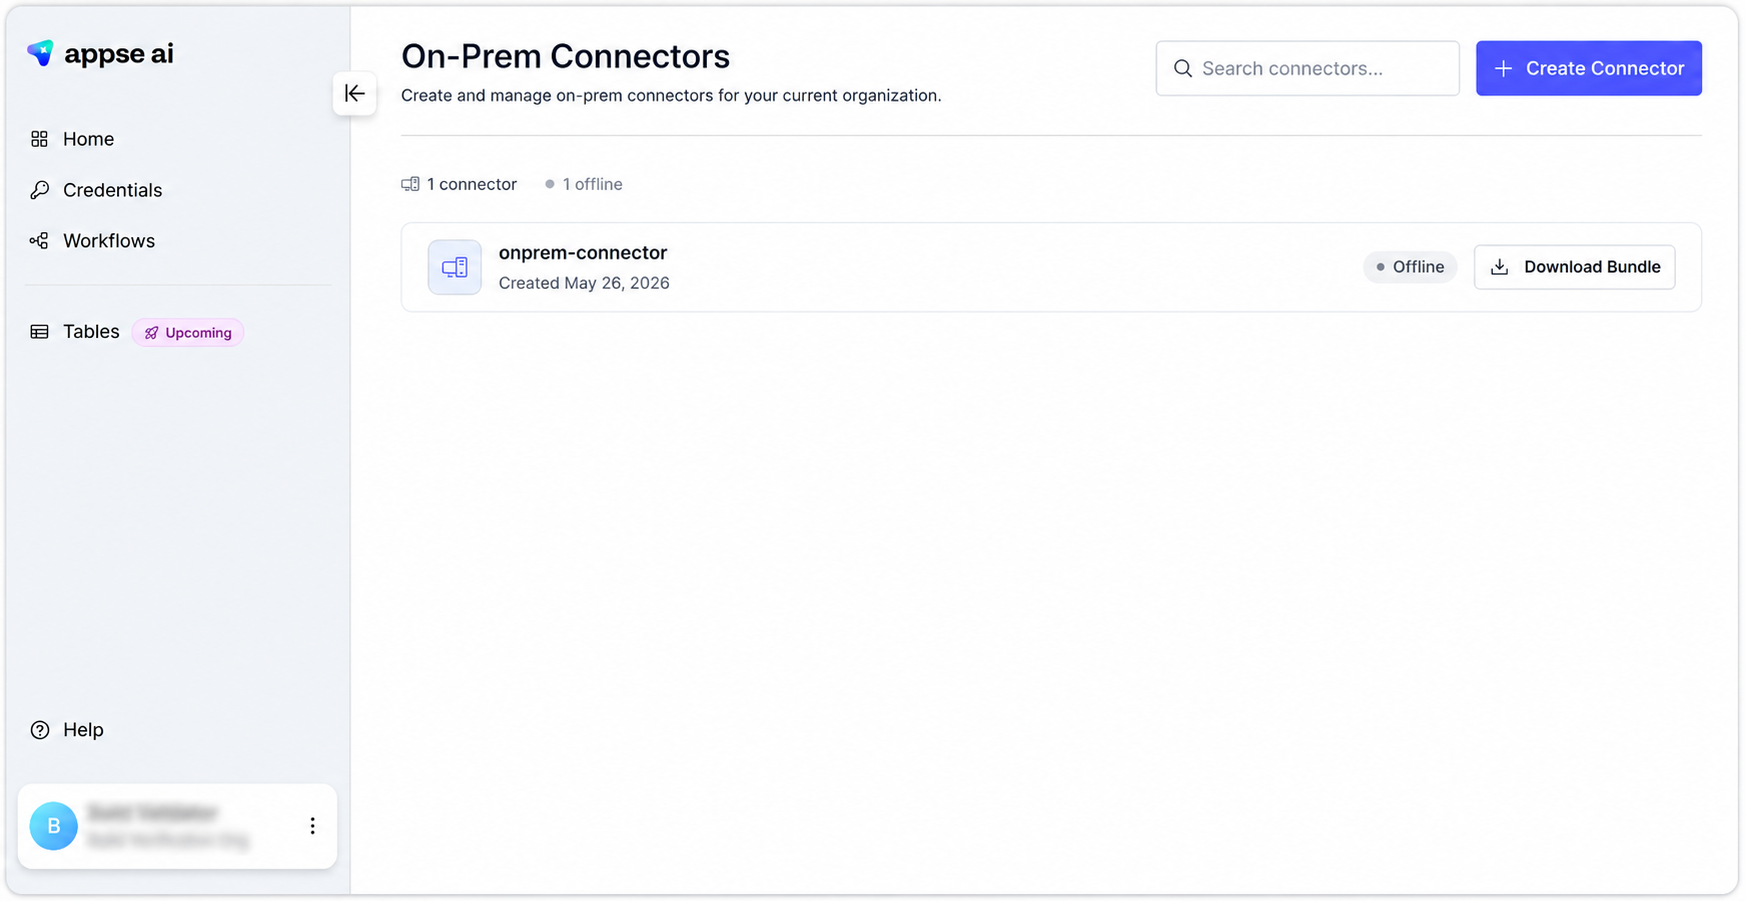
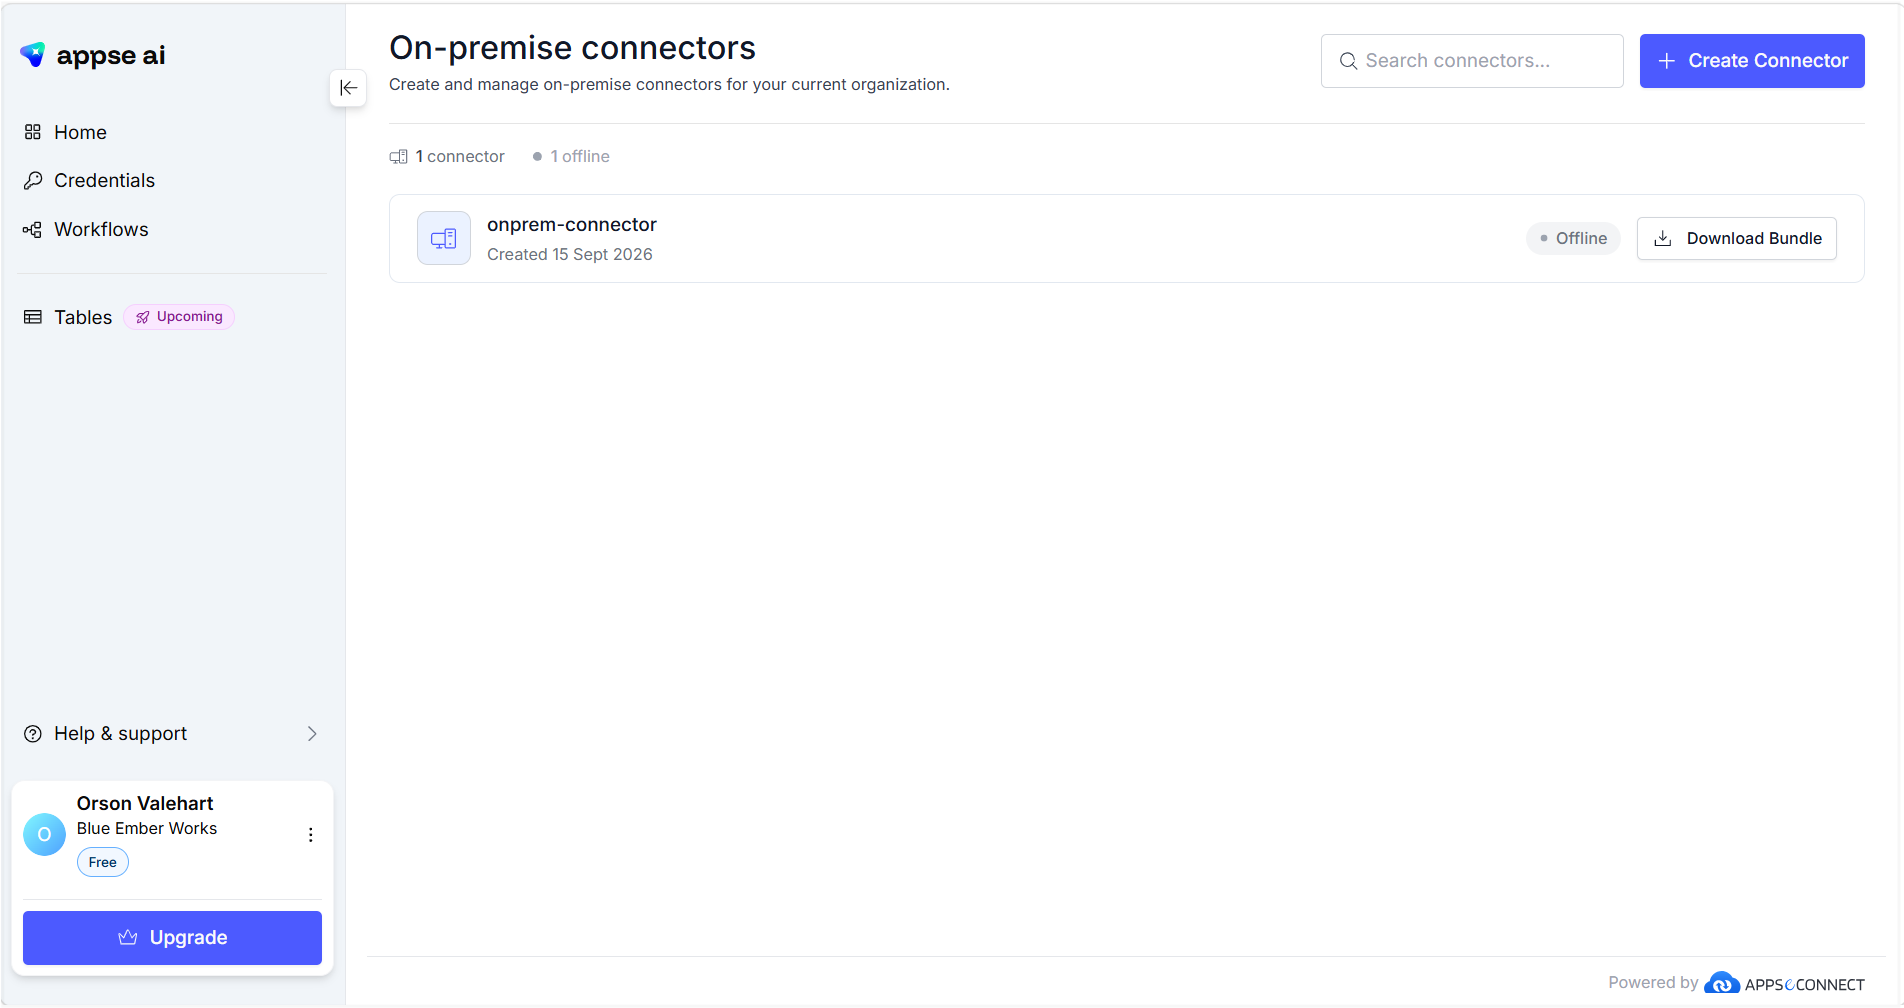
proxy tunnel removed and image update

diff --git a/docs/platform/key_concepts/on-premise-agent/on-prem-agent.md b/docs/platform/key_concepts/on-premise-agent/on-prem-agent.md
@@ -162,7 +162,7 @@ Once the agent is created successfully:
 
 ### Step 5: View the Created On-Prem Connector
 
-After closing the popup, the newly created agent is displayed in the On-Site Connector page.
+After closing the popup, the newly created agent is displayed in the On-premise connectors page.
 
 - The agent status is displayed as **Offline**
 
